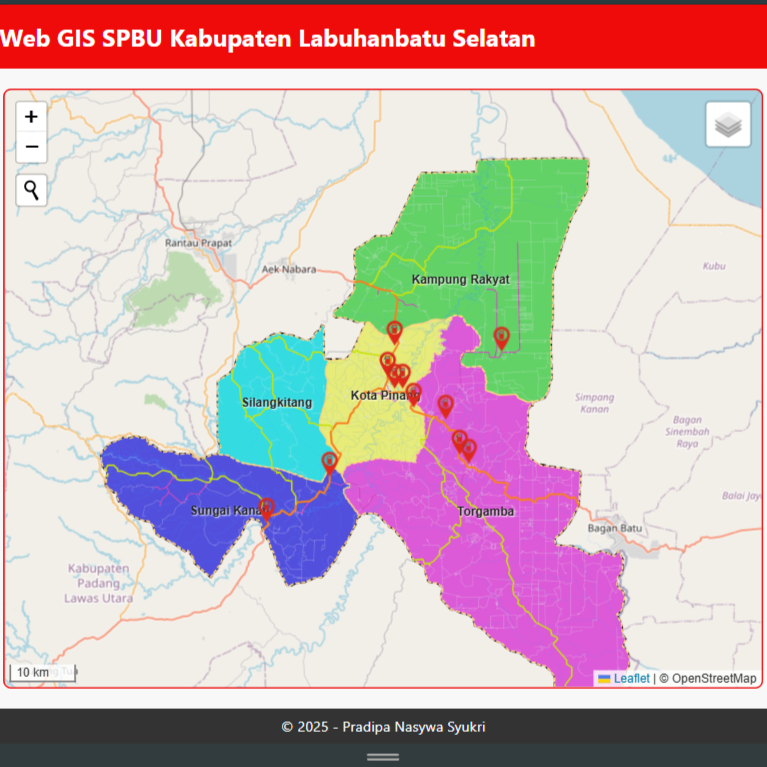
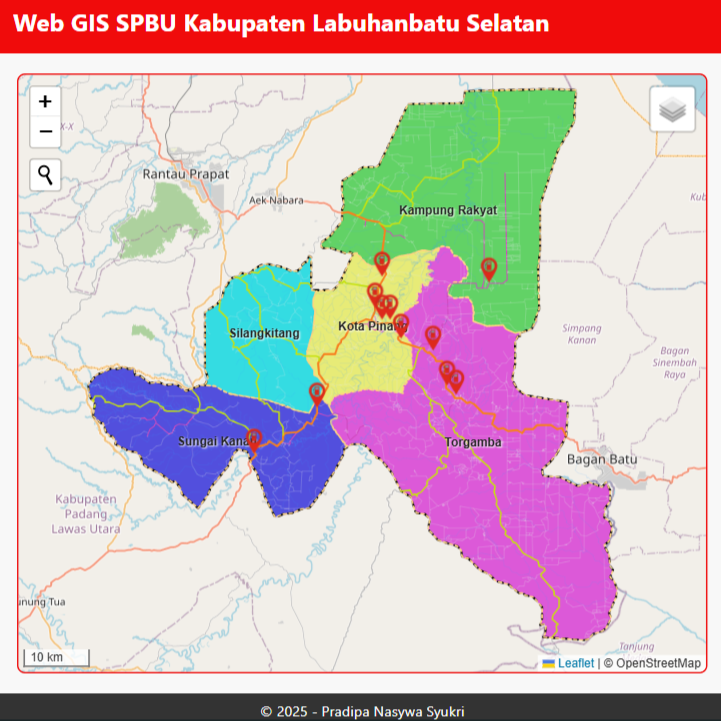
update data project

diff --git a/index.html b/index.html
@@ -118,14 +118,14 @@
           </div>
           <div class="col-md-4 mb-3">
             <div class="card h-100 shadow-sm">
-              <img src="img/dark mode.png" class="card-img-top" alt="Project 2" />
+              <img src="img/web-gis-hospital-binjai.png" class="card-img-top" alt="Project 2" />
               <div class="card-body text-center">
-                <p class="card-title fw-bold">Dark Mode</p>
-                <p class="card-text">Simple dark mode. Made with HTML & CSS</p>
-                <a href="https://github.com/PradipaNasywaSyukri/pradipa-dark-mode" target="_blank">
+                <p class="card-title fw-bold">Hospital Distribution & Accessibility Web GIS</p>
+                <p class="card-text">Interactive Web GIS for mapping hospital distribution and accessibility in Binjai City, integrating spatial analysis, road-network-based accessibility zones, building footprints, and hospital information using QGIS, Leaflet, GeoJSON, and JavaScript.</p>
+                <a href="https://github.com/PradipaNasywaSyukri/Web-GIS-Hospital-Binjai" target="_blank">
                   <button type="button" class="btn btn-primary bi bi-github">GitHub</button>
                 </a>
-                <a href="https://pradipanasywasyukri.github.io/pradipa-dark-mode/" target="_blank">
+                <a href="https://pradipanasywasyukri.github.io/Web-GIS-Hospital-Binjai/" target="_blank">
                   <button type="button" class="btn btn-primary bi bi-link-45deg">Demo</button>
                 </a>
               </div>
@@ -133,14 +133,14 @@
           </div>
           <div class="col-md-4 mb-3">
             <div class="card h-100 shadow-sm">
-              <img src="img/gerhana matahari.png" class="card-img-top" alt="Project 3" />
+              <img src="img/web-gis-desa-tangjung-bunga.png" class="card-img-top" alt="Project 3" />
               <div class="card-body text-center">
-                <p class="card-title fw-bold">Solar Eclipse Animation</p>
-                <p class="card-text">Simple solar eclipse animation. Made with HTML & CSS</p>
-                <a href="https://github.com/PradipaNasywaSyukri/pradipa-solar-eclipse-animation" target="_blank">
+                <p class="card-title fw-bold">Web GIS Desa Tanjung Bunga</p>
+                <p class="card-text">A Leaflet.js-based digital mapping platform (HTML, CSS, JavaScript) presenting administrative boundaries, road networks, hydrology, topography, and public facility data in a responsive interface, built as part of Universitas Negeri Medan's 2026 Community Service Program (KKN) to support spatial data transparency for the village.</p>
+                <a href="https://github.com/kkn-unimed-tanjung-bunga1/webgis-desa-tanjung-bunga" target="_blank">
                   <button type="button" class="btn btn-primary bi bi-github">GitHub</button>
                 </a>
-                <a href="https://pradipanasywasyukri.github.io/pradipa-solar-eclipse-animation/" target="_blank">
+                <a href="https://kkn-unimed-tanjung-bunga1.github.io/webgis-desa-tanjung-bunga/" target="_blank">
                   <button type="button" class="btn btn-primary bi bi-link-45deg">Demo</button>
                 </a>
               </div>
